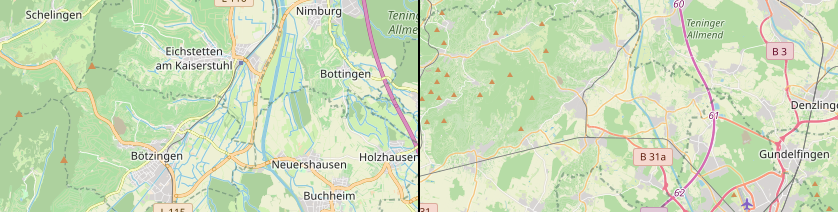
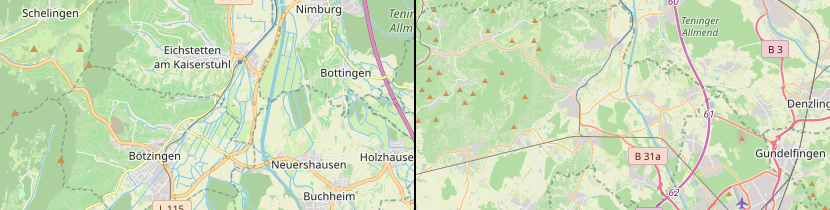
updating previews and creating additional ones for higher zoom levels

diff --git a/README.md b/README.md
@@ -9,6 +9,8 @@ and overall a different approach to cartographic design.
 ![screenshot2](https://raw.github.com/imagico/osm-carto-alternative-colors/master/doc/preview2.png)
 ![screenshot3](https://raw.github.com/imagico/osm-carto-alternative-colors/master/doc/preview3.png)
 ![screenshot4](https://raw.github.com/imagico/osm-carto-alternative-colors/master/doc/preview4.png)
+![screenshot5](https://raw.github.com/imagico/osm-carto-alternative-colors/master/doc/preview5.png)
+![screenshot6](https://raw.github.com/imagico/osm-carto-alternative-colors/master/doc/preview6.png)
 
 # Features
 
